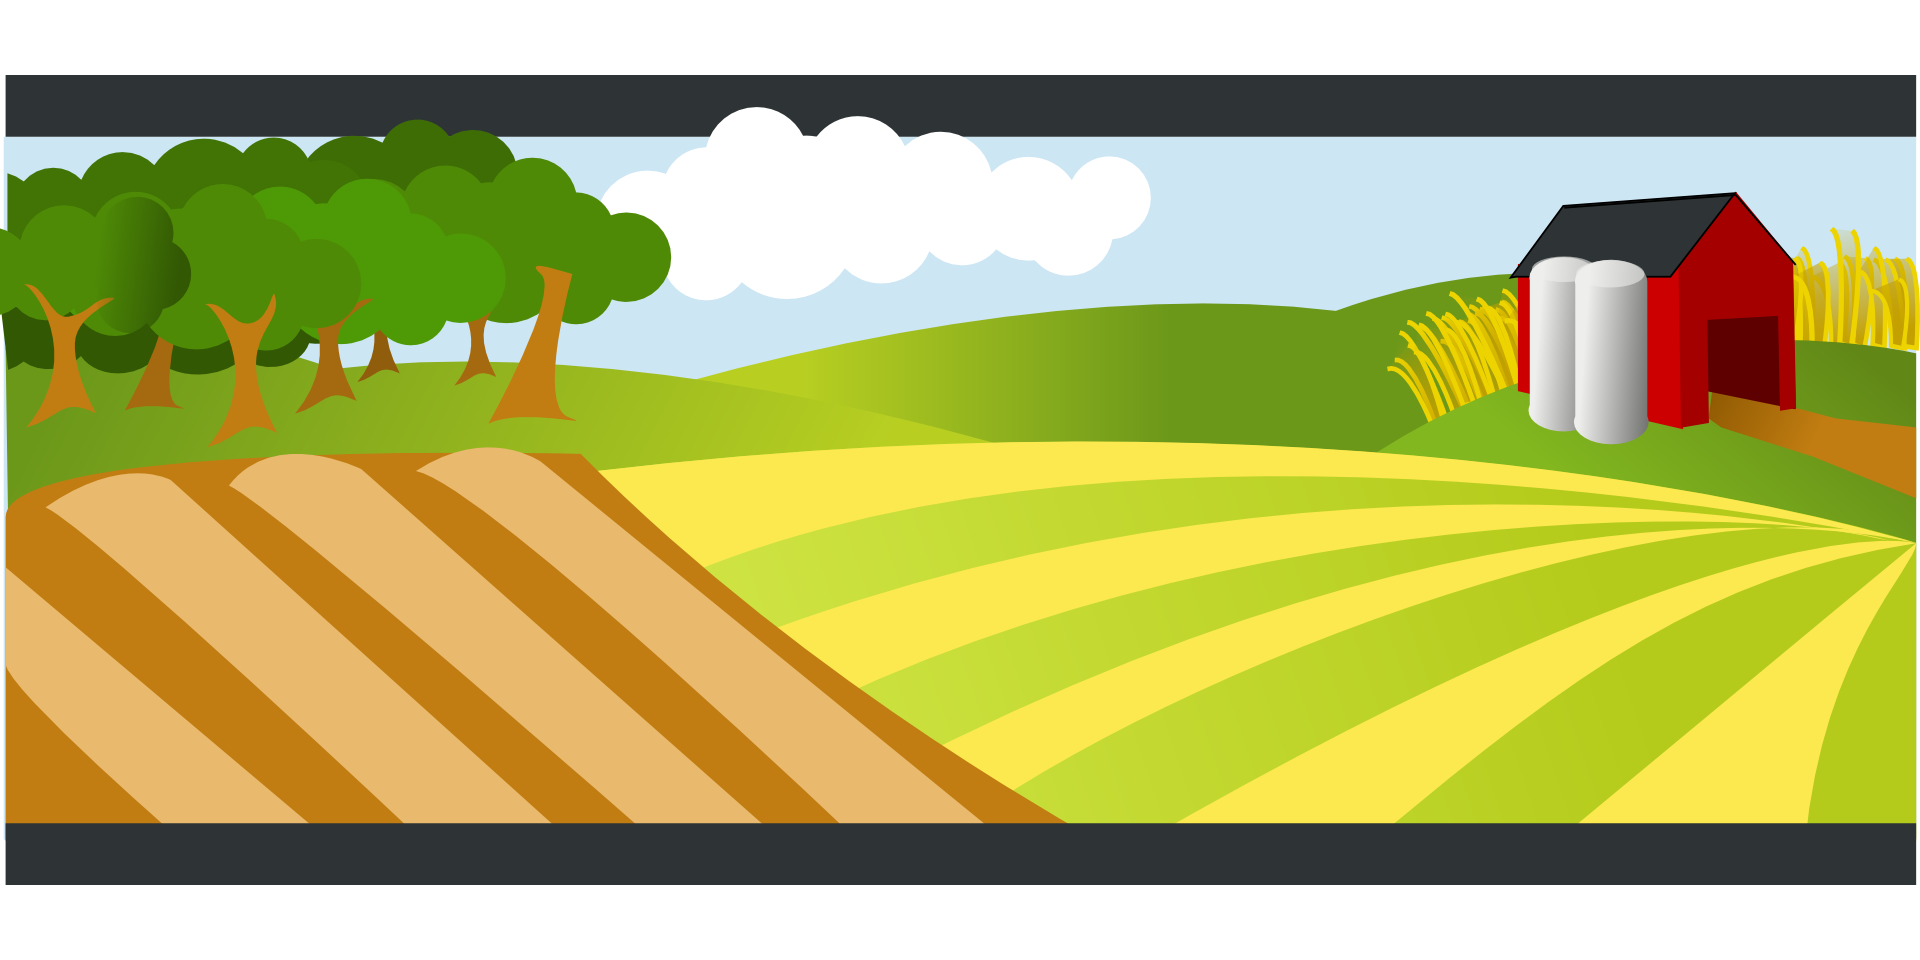
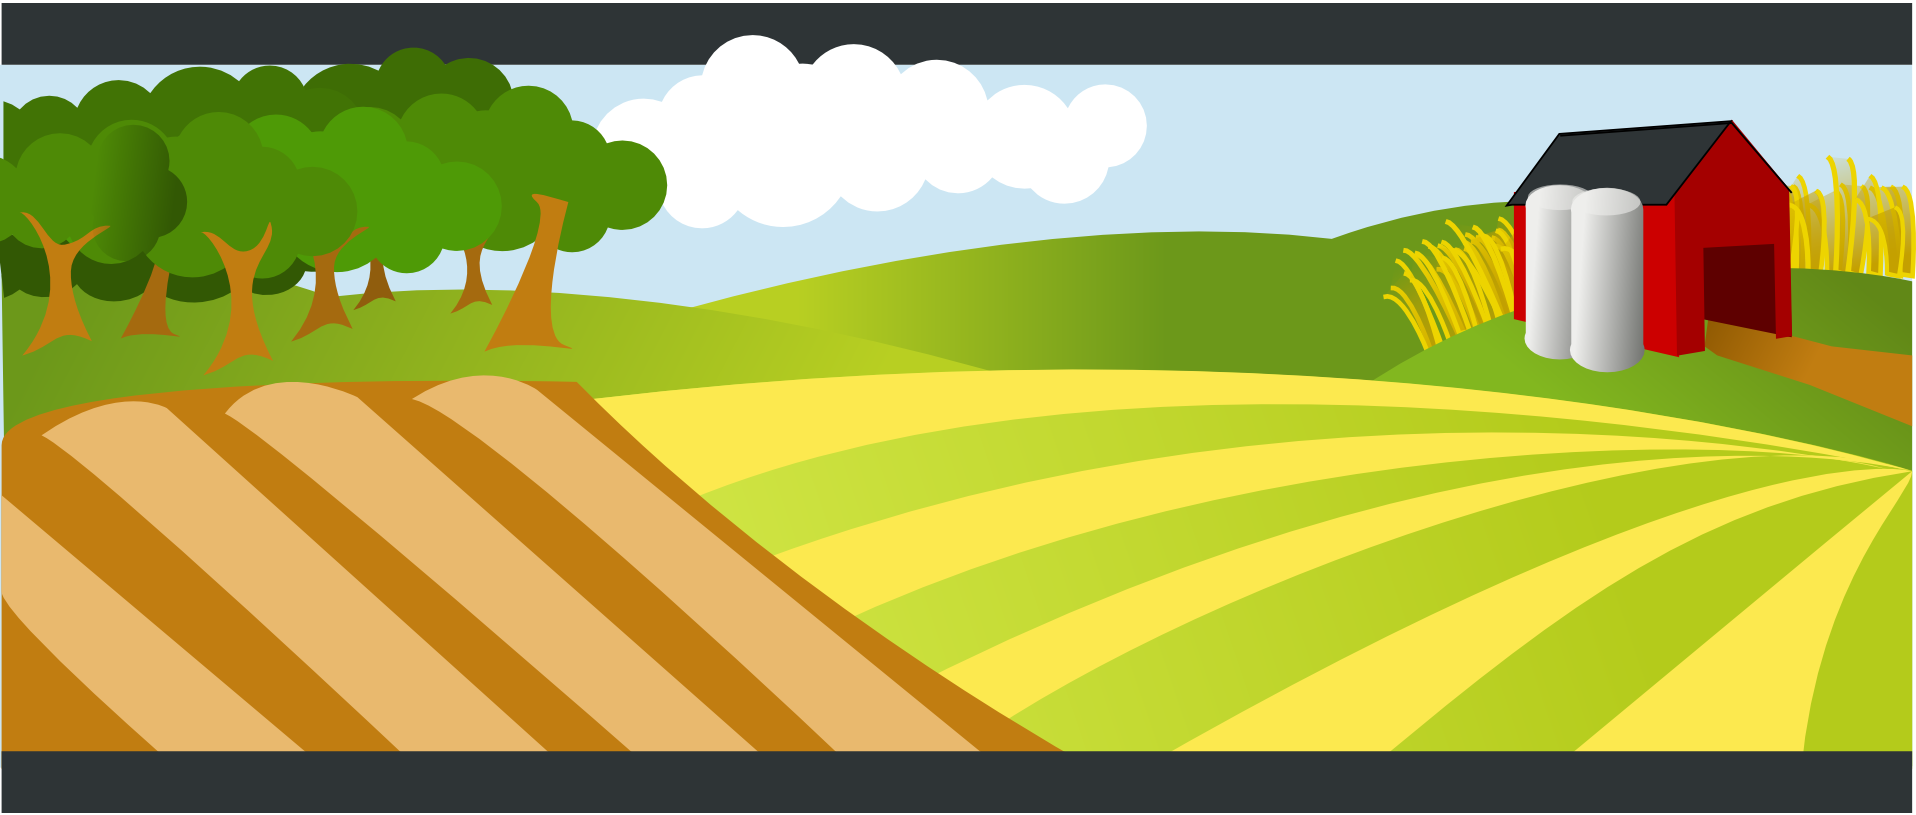
Add header and footer and style

diff --git a/src/App.js b/src/App.js
@@ -1,13 +1,17 @@
 import './App.css';
 import Main from './main/main.js';
+import Header from './header/header.js';
+import Footer from './footer/footer.js';
 import { animals } from '../src/data.js';
 
 function App() {
   return (
     <div>
+      <Header greeting='Welcome to the Animal Farm' />
       <Main
         animals={ animals }
       />
+      <Footer email='animal@farm.com' />
     </div>
   );
 }

diff --git a/src/header/header.css b/src/header/header.css
@@ -1,0 +1,9 @@
+header {
+    font-size: xx-large;
+    text-align: center;
+    font-weight: bold;
+    position: absolute;
+    margin-left: 20px;
+    margin-top: 5px;
+    color: #FCE94F;
+}

diff --git a/src/footer/footer.js b/src/footer/footer.js
@@ -1,0 +1,9 @@
+import React from 'react';
+import './footer.css';
+
+export default function Footer({ email }) {
+  return <footer>
+    { 'Contact: ' + email
+    }
+  </footer>;
+}

diff --git a/src/header/header.js b/src/header/header.js
@@ -1,0 +1,10 @@
+import React from 'react';
+import './header.css';
+
+export default function Header({ greeting }) {
+  return <header>
+    {
+      greeting
+    }
+  </header>;
+}

diff --git a/src/main/main.css b/src/main/main.css
@@ -1,6 +1,6 @@
 main {
     display: flex;
     background-size: cover;
-    height: 960px;
+    height: 800px;
     width: 1920px;
 }

diff --git a/src/footer/footer.css b/src/footer/footer.css
@@ -1,0 +1,6 @@
+footer {
+    font-size: x-large;
+    text-align: end;
+    background-color: #C17D11;
+    padding-right: 20px;
+}
